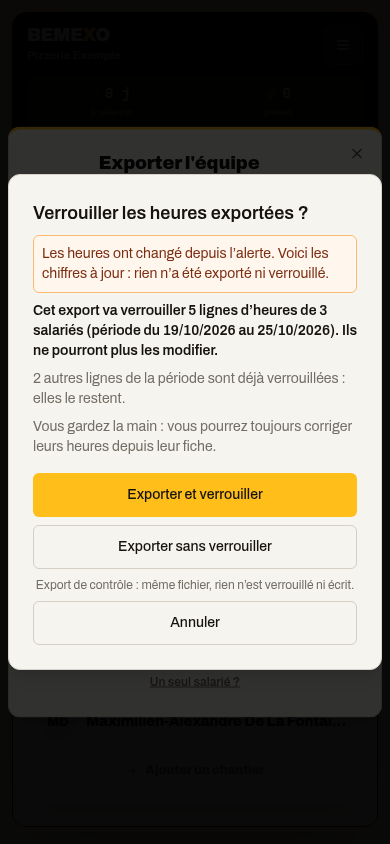
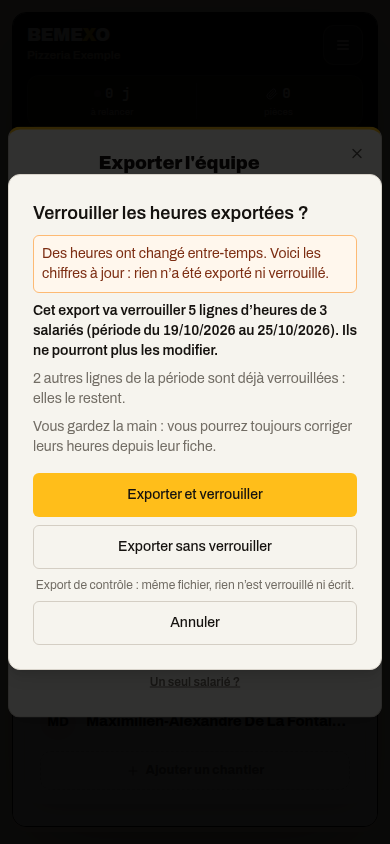
Tests navigateur et documentation des corrections de l'alerte d'export
Nouvelles parties du test navigateur (99 contrôles au total, ONLY=I,J,K,L pour
les seules nouvelles) : ligne qui arrive pendant l'export avec 0 ligne annoncée
(l'alerte s'ouvre, rien n'est verrouillé), période de l'alerte = période de
l'export même si l'écran change, boutons de période inactifs pendant le comptage,
verrou en échec (total, et partiel à 400 lignes sur 1203), lectures de l'export
avec les mêmes statuts et un ordre terminé par id. Elles échouent sur le build
d'avant les corrections.

Documentation : poids de /admin corrigé (354 kB avec le lot seul, 356 kB après la
fusion avec le lot 23, budget 363) et les nouveaux cas. Capture « chiffres
changés » refaite (la phrase a changé).

Claude-Session: https://claude.ai/code/session_01UjXHEzdjb9t6bteo8SrVhu

Changed region(s): [[0.1231, 0.2773, 0.8308, 0.3081]]

diff --git a/docs/alerte-export.md b/docs/alerte-export.md
@@ -26,8 +26,11 @@ Les chiffres sont **exacts** : ce sont les lignes que l'export va réellement ve
 - **« Envoyer au comptable »** : l'alerte propose seulement « Envoyer et verrouiller » et « Annuler ». Pas de « sans verrouiller » : l'envoi part par e-mail et écrit lui-même dans le journal d'envoi, ce n'est pas un contrôle.
 - **Mode support (lecture seule)** : pas d'alerte, pas de comptage. Le fichier sort, rien n'est verrouillé (la base le refuse de toute façon) et le message le dit : « Export téléchargé — rien n'a été verrouillé ». L'écriture est de toute façon refusée par la base ; avant, le message annonçait pourtant « N saisies verrouillées ».
 - **Les chiffres ont bougé** pendant que l'alerte était ouverte (un salarié a envoyé ses heures) : au clic sur « Exporter et verrouiller », rien n'est exporté ni verrouillé, l'alerte reste et montre les chiffres à jour avec une phrase qui explique pourquoi. Un deuxième clic confirme les nouveaux chiffres.
+- **Même quand il n'y avait « rien à verrouiller »** (donc pas d'alerte) : si une ligne arrive pendant que l'export se prépare (1 à 3 secondes sur téléphone), elle n'est pas verrouillée sans prévenir. L'alerte s'ouvre avec les chiffres à jour, rien n'est exporté ni verrouillé avant votre choix.
+- **La période annoncée est celle de l'export** : elle est figée au clic (les boutons « Aujourd'hui », « Cette semaine » et « Créneau » sont inactifs pendant le comptage). Même si l'écran change de période pendant que l'alerte est ouverte, l'export porte sur la période annoncée.
+- **Le verrouillage échoue après le fichier** (réseau coupé) : le fichier est déjà téléchargé (ou l'e-mail déjà parti). Le message le dit : « Fichier téléchargé, mais le verrouillage a échoué : les heures restent modifiables. Recommencez. » Si le verrou n'a été posé qu'en partie (il se pose par lots de 200) : « … le verrouillage n'est fait qu'en partie (400 lignes sur 1203) : les autres heures restent modifiables. Recommencez. » Jamais « Erreur lors de l'export » dans ce cas.
 - **Comptage impossible** (réseau) : « Impossible de vérifier les heures qui seraient verrouillées. Rien n'a été exporté ni verrouillé. Réessayez. » On ne verrouille jamais à l'aveugle.
-- **Plus de 1000 lignes** : le comptage est paginé, le chiffre reste exact.
+- **Plus de 1000 lignes** : le comptage est paginé, le chiffre reste exact. Les lectures de l'export (récapitulatif, lignes exportées, comptage) se font dans un ordre complet (jour, salarié, heure de début, puis identifiant) : deux pages de 500 lignes ne se recouvrent plus et ne laissent plus de trou quand un salarié a deux chantiers le même jour. Le détail d'une journée sort dans l'ordre des heures.
 - **Export d'un seul salarié** (fiche salarié) : il **ne verrouille rien** (déjà le cas, c'est écrit dans l'écran). Il n'y a donc pas d'alerte.
 - **Message final** : « Export téléchargé — 42 saisies verrouillées » reprend le chiffre de l'alerte. Si tout était déjà verrouillé, le message est celui d'avant.
 
@@ -47,7 +50,7 @@ Les trois boutons font 44 px de haut, tiennent dans l'écran sans défilement ho
 - Le fichier est identique, octet pour octet, avec ou sans verrou (test automatique).
 - Le verrou est toujours posé **après** le fichier, par lots de 200 lignes, sur les lignes du fichier (comme avant, y compris celles qui étaient déjà verrouillées : leur date d'export est remise à jour).
 - Aucune migration, aucune fonction edge, aucune suppression. Le lot ne touche pas à l'IA.
-- Poids : `/admin` passe de 353 à 354 kB (budget 363). L'alerte est un fichier à part (2,7 kB compressé), chargé à l'ouverture de « Exporter l'équipe », jamais au chargement de la page. Elle n'importe ni Excel ni jsPDF (chargés par le menu « Exporter ▾ », lot 5).
+- Poids : `/admin` passe de 353 à 354 kB avec ce lot seul ; 356 kB une fois fusionné avec le lot 23 (budget 363). L'alerte est un fichier à part (2,7 kB compressé), chargé à l'ouverture de « Exporter l'équipe », jamais au chargement de la page. Elle n'importe ni Excel ni jsPDF (chargés par le menu « Exporter ▾ », lot 5).
 - Aucune lecture de plus au chargement (lot 29) : le comptage se fait **au clic**.
 
 ## Limites
@@ -63,13 +66,13 @@ Les trois boutons font 44 px de haut, tiennent dans l'écran sans défilement ho
 | Fichier | Rôle |
 |---|---|
 | `lib/export-verrou.ts` | Règles pures (comptes N / M, quand alerter, phrases, message final). Testées sous Deno. |
-| `lib/export-lignes.ts` | Le filtre UNIQUE des heures exportées (`lignesExportees`), partagé par le fichier, le verrou et l'alerte ; `lireCompteVerrou` (lecture paginée au clic). |
+| `lib/export-lignes.ts` | Le filtre UNIQUE des heures exportées (`lignesExportees`), partagé par le fichier, le verrou et l'alerte (le récapitulatif utilise les mêmes statuts, `STATUTS_EXPORTES`) ; `lireCompteVerrou` (lecture paginée au clic). |
 | `components/export-verrou-dialog.tsx` | L'alerte (`AlertDialog`), chargée à l'ouverture (`lazyWindow`). |
 | `components/admin-planning.tsx` | `demanderExport` (compte, décide), `choisirVerrou` (les choix), `runExport(kind, { verrouiller, annonce })`. |
 
 Tests :
 - `npm run test:export-alerte-regles` (Deno) : comptes, phrases, et garde-fous du source (un seul endroit écrit `locked: true`, après le fichier, seulement si on le demande ; même filtre pour l'alerte et le verrou ; l'alerte n'importe ni Excel ni PDF ; la fiche salarié ne verrouille rien).
-- `npm run test:export-alerte-ecrans` (après `npm run build`) : 77 contrôles dans un vrai navigateur à 1280 et 390 px, base simulée qui applique les écritures.
+- `npm run test:export-alerte-ecrans` (après `npm run build`) : 99 contrôles dans un vrai navigateur à 1280 et 390 px, base simulée qui applique les écritures.
 
 Tests existants adaptés (ils cliquent un format d'équipe et attendaient le fichier tout de suite) : `export-lot11`, `panier-lot3bis`, `site-rapide-lot5`, `statistiques-lot5`. Ils **confirment l'alerte** (« Exporter et verrouiller » = le comportement d'avant) ; leurs assertions ne changent pas.
 
